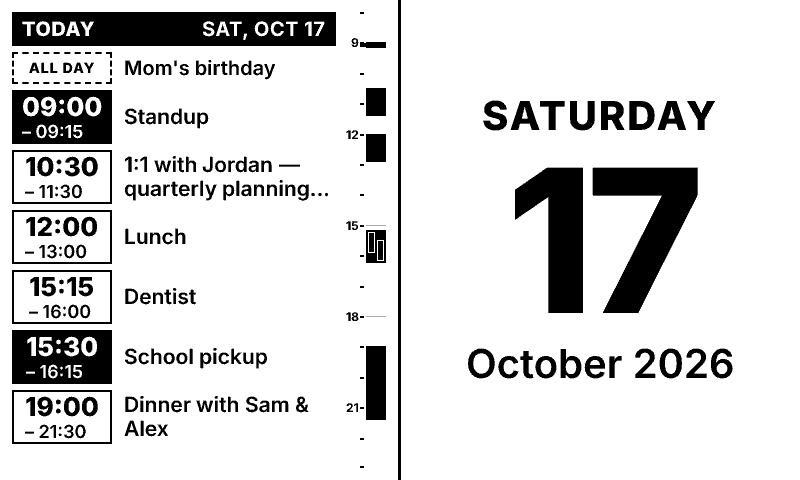
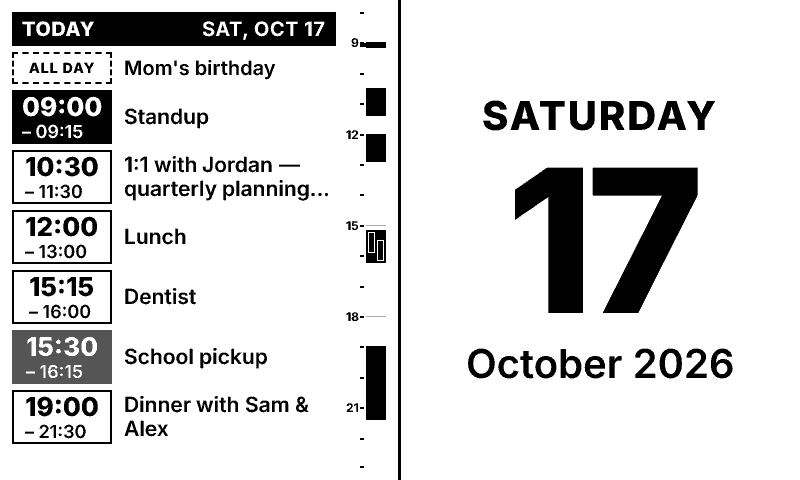
Use dark grey for overlapping events' time boxes
Inverted black already marks the event happening now, so the two read the
same. Overlaps now get a dark grey box; now still wins if both apply.

Changed region(s): [[0.0, 0.6875, 0.1562, 0.8125]]

diff --git a/src/plugins/calendar/index.tsx b/src/plugins/calendar/index.tsx
@@ -323,7 +323,8 @@ function TimedRow({ row, fmt, ctx, timeCol }: { row: Row; fmt: TimeFmt; ctx: Ren
           justifyContent: "center",
           width: timeCol - (inv ? 0 : 4),
           flexShrink: 0,
-          background: inv ? "black" : "white",
+          // Happening now is black; overlapping an earlier event is dark grey (now wins if both).
+          background: row.ongoing ? "black" : inv ? "#404040" : "white",
           color: inv ? "white" : "black",
           border: inv ? "none" : "2px solid black",
         }}
